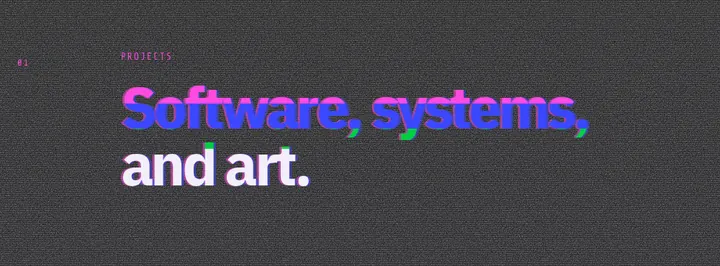
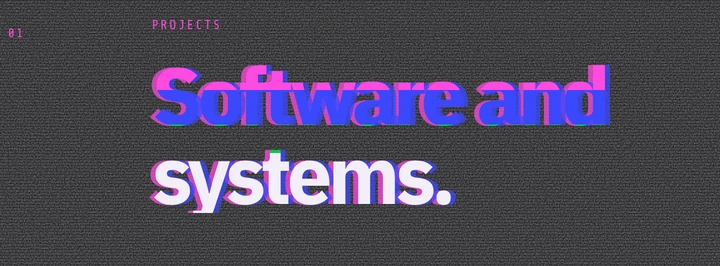
Projects: heading is Software and systems (art has its own section)
Keep the Skull World VHS pipeline card in Projects. Update the Portfolio card CH 01 still and alt to match the new heading.

diff --git a/Projects.html b/Projects.html
@@ -56,7 +56,7 @@
       <div class="section-number">01</div>
       <div class="section-heading">
         <p class="eyebrow">Projects</p>
-        <h2>Software, systems,<br>and art.</h2>
+        <h2>Software and<br>systems.</h2>
       </div>
     </section>
     <section class="project-grid" aria-label="Technical projects">
@@ -126,7 +126,7 @@ status: reasoning under uncertainty_</code></pre>
         </div>
         <div class="channel-stack-wrap">
           <div class="channel-stack">
-            <figure class="ch ch-1"><figcaption><b>CH 01</b>Projects</figcaption><img src="media/portfolio-ch01-projects.webp" alt="Projects page headline: Software, systems, and art." width="720" height="266" loading="lazy" decoding="async"></figure>
+            <figure class="ch ch-1"><figcaption><b>CH 01</b>Projects</figcaption><img src="media/portfolio-ch01-projects.webp" alt="Projects page headline: Software and systems." width="720" height="266" loading="lazy" decoding="async"></figure>
             <figure class="ch ch-2"><figcaption><b>CH 02</b>Graphic Art</figcaption><img src="media/portfolio-ch02-graphic-art.webp" alt="Graphic Art page headline: Tape, signal, AI and 3D." width="720" height="266" loading="lazy" decoding="async"></figure>
             <figure class="ch ch-3"><figcaption><b>CH 03</b>Experience</figcaption><img src="media/portfolio-ch03-experience.webp" alt="Experience page headline: Built in code. Tested in operations." width="720" height="266" loading="lazy" decoding="async"></figure>
           </div>
